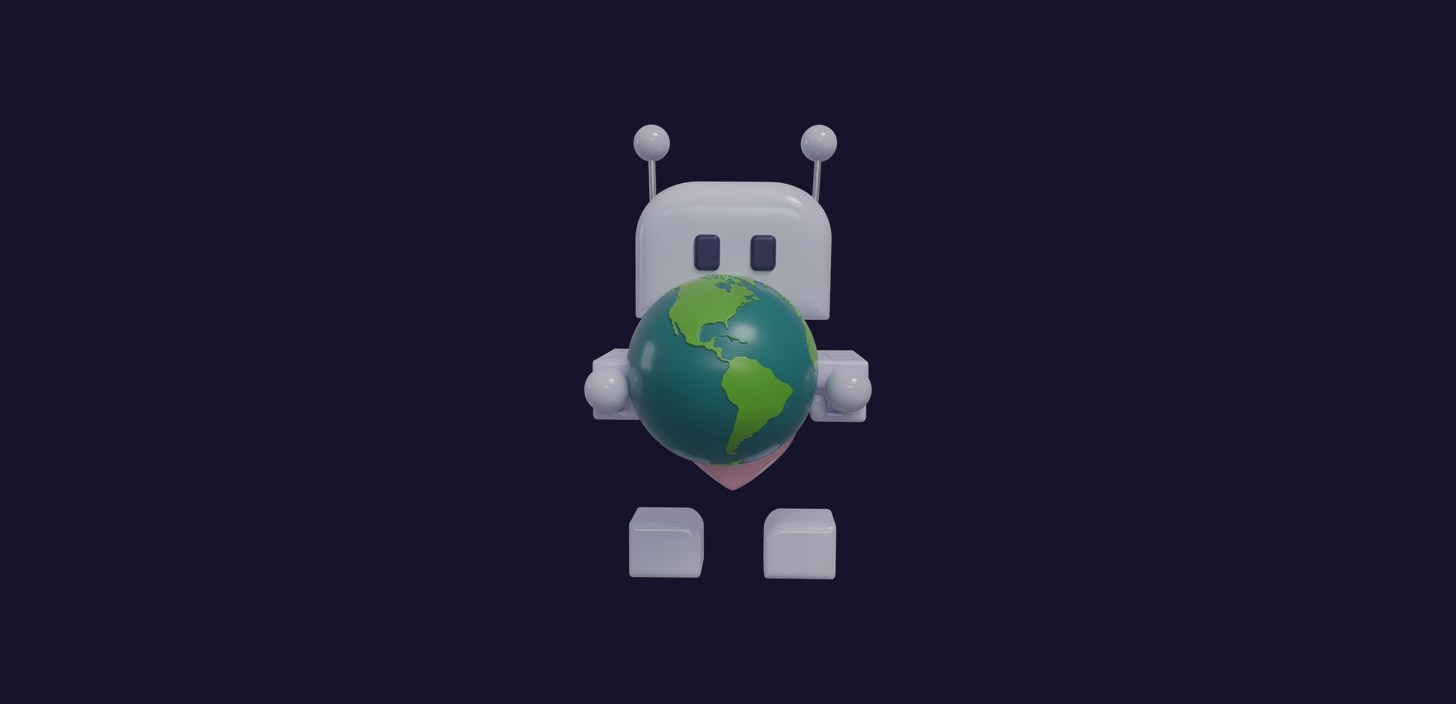
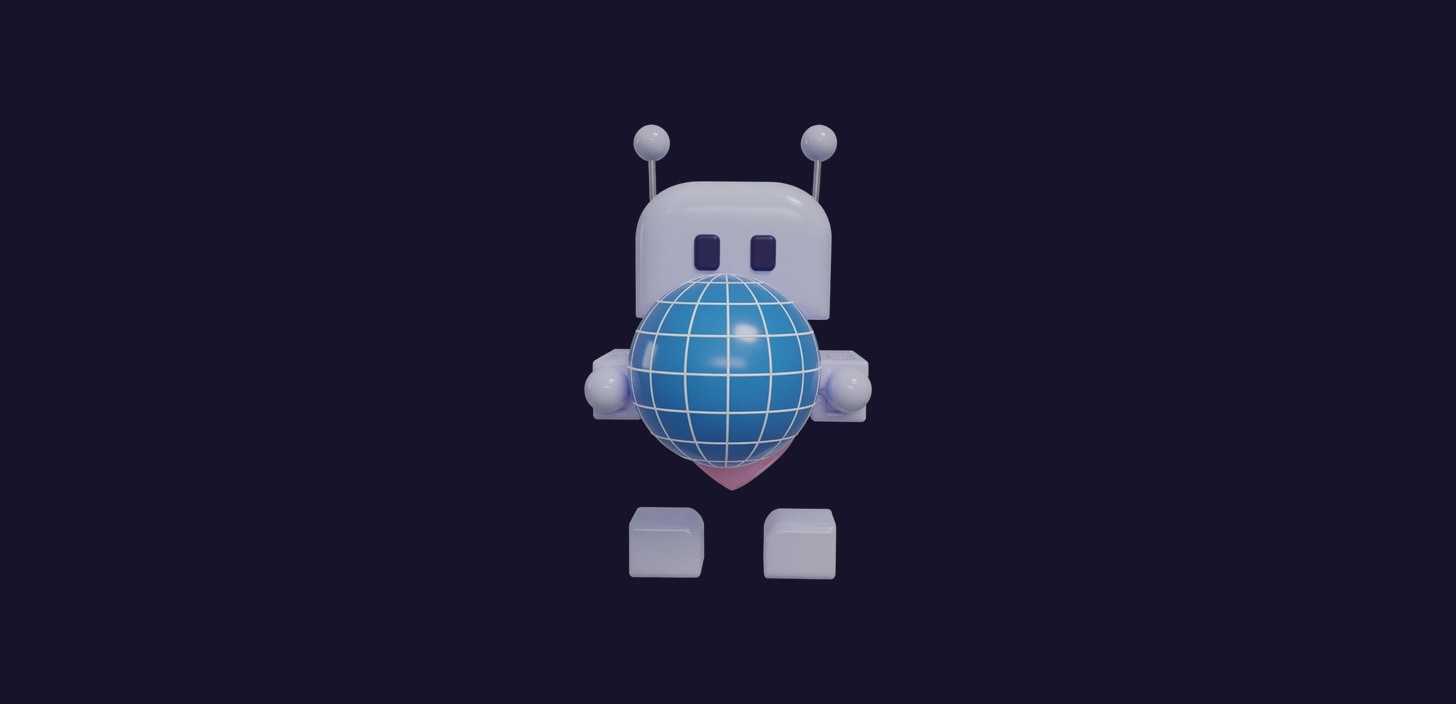
feat(open-web-vectors): 🌐 meridians globe in the robot's hands
Swap the continent Earth for a grid globe matching the globe-with-meridians emoji.

Changed region(s): [[0.4327, 0.375, 0.5872, 0.6875]]

diff --git a/site/templates/open-web-vectors.html b/site/templates/open-web-vectors.html
@@ -64,8 +64,8 @@
         </g>
       </svg>
       <div class="owv-orbit-scrim"></div>
-      <img class="owv-orbit-robot" src="/images/robot-orbit-520.webp?v=front"
-           srcset="/images/robot-orbit-320.webp?v=front 320w, /images/robot-orbit-520.webp?v=front 520w"
+      <img class="owv-orbit-robot" src="/images/robot-orbit-520.webp?v=meridian"
+           srcset="/images/robot-orbit-320.webp?v=meridian 320w, /images/robot-orbit-520.webp?v=meridian 520w"
            sizes="200px" width="520" height="520" alt="" loading="lazy" decoding="async">
     </div>
     <div class="container">
